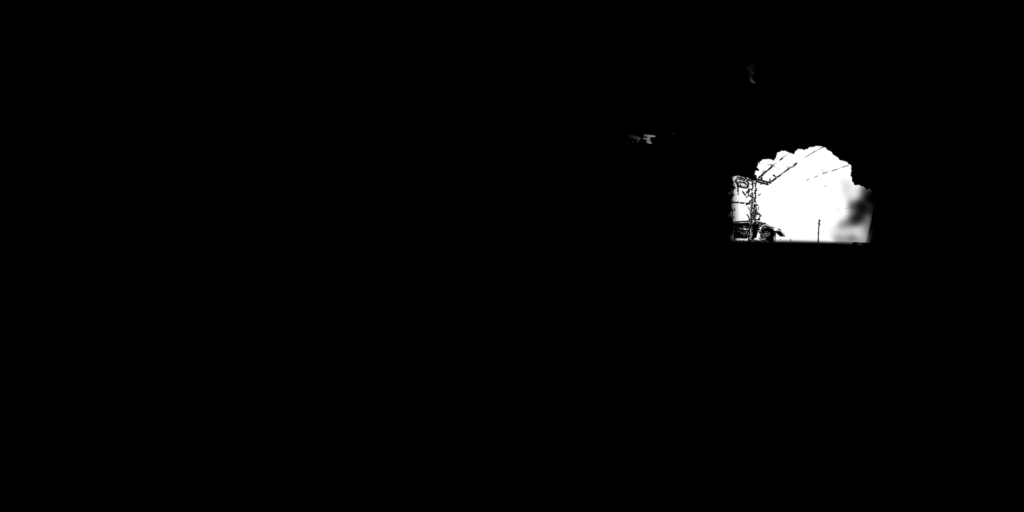
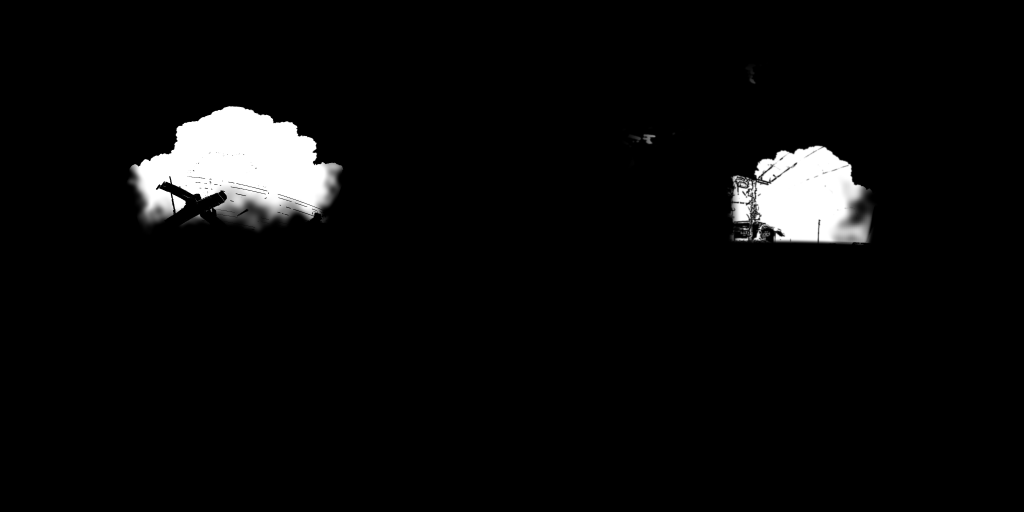
Lab: climb curve-mirror round 3
Claude-Session: https://claude.ai/code/session_01RqENhngNCzDFmJWDZueXGV

Changed region(s): [[0.125, 0.1875, 0.3438, 0.4375]]

diff --git a/src/app/lab/curve-mirror/curveMirrorEngine.js b/src/app/lab/curve-mirror/curveMirrorEngine.js
@@ -118,9 +118,13 @@ const PLANE_AZ = -36;
 // rest aim (relative to facing the lens) and limits, degrees
 const REST = [20, -15];
 // The hero aim (?aim=hero): turned toward the far side of the crossing and
-// tipped up, so the glass holds the crossbuck and the cumulus behind the
-// viewer against the deep cobalt over them.
-const HERO = [-40, 5];
+// tipped up a little, so the glass holds the turned crossbuck well inside its
+// rim with the far side's cumulus tower (reproject.py's far heap) rising
+// behind it over nearly half the dome, and the sun's glint off to the upper
+// rim, clear of the heap: a miniature of the scene, deep cobalt, one big
+// sunlit cloud, one sharp crossbuck. (Traced: the cloud takes ~44% of the
+// glass, the glint sits at 0.95 of the radius, the crossbuck at 0.64.)
+const HERO = [-50, 5];
 // What the bracket can do. The arm's clamp band turns on the pole, but the
 // yoke's stops (and the street the mirror is bolted to watch) hold the face
 // within 65 degrees of the lens either way, so its back, the bare pressed

diff --git a/tools/depth/bakes/curve-mirror/reproject.py b/tools/depth/bakes/curve-mirror/reproject.py
@@ -36,6 +36,13 @@ rebuilds everything above the road toward the crossing from the plate alone:
     the plate (street_develop: its HDR crunch, crushed blacks, milky whites
     and crisp JPEG edges taken to the plate's local contrast, black, plaster
     white, colour and spread), its sky rebased on the plate's gradient.
+  - over the far side, a tower of its own (far_heap): the plate's cumulus
+    is a cut scrap at its right edge, so turned it was a sliver on the far
+    side and the glass held there (the engine's HERO) an empty cobalt disc.
+    The photographed congestus (cumulus.py, whole; its source must be at
+    CUMULUS) is laid in a virtual camera rising behind the turned
+    crossbuck, under every surface and wire, its sun-side turrets clear of
+    the sun, and goes into envc so the engine carries its tops past 8 bits.
   - and no seam runs straight across the sky: the plate's and the 360's
     skies cross over a wide band (in azimuth where both are sky, and by
     elevation up the sky over the 360), and a cloud that a frame cut (the
@@ -61,6 +68,8 @@ sys.path.insert(0, os.path.join(os.path.dirname(os.path.abspath(__file__)), ".."
 import kit  # noqa: E402
 
 sys.path.insert(0, os.path.dirname(os.path.abspath(__file__)))
+import clouds  # noqa: E402
+import cumulus  # noqa: E402
 import develop  # noqa: E402
 import match  # noqa: E402
 import sky_grade  # noqa: E402
@@ -452,6 +461,80 @@ env, envc = heap_fade(env, sky360, envc)
 env = street_develop(env, cv2.GaussianBlur((1 - sky360).astype(np.float32), (0, 0), 1.0))
 T.mark("street")
 
+# ---------------------------------------------------------------- the far side's heap
+# The plate's cumulus stands at its right edge, cut by the frame, so turned
+# over the plane it is a scrap low on the far side's left, and the glass
+# held on the far side (the engine's HERO) showed an empty cobalt disc with
+# the reflected crossbuck at its edge. Refs 1-3 are the opposite: one big
+# soft glowing heap rising behind a sharp crossbuck. So the far side is given
+# its own tower: the photographed congestus (cumulus.py, the whole of it,
+# not the plate's cut crop), laid as match.py lays the one behind the lens,
+# in a virtual camera at the plate's focal length aimed past the turned
+# crossbuck (FAR_LON, FAR_PITCH), placed by FAR_PLACE: its crown at about
+# 55 degrees, its sunlit turrets on the sun's side (the sun stands off its
+# left shoulder, clear of it, so the glint and the heap both fit the glass),
+# its belly faded at the source's frame edges and its foot into the cobalt
+# low behind the turned roofs and the crossbuck. It goes under every
+# surface and wire (clouds._lay_over, with the plate's halo taken out), and
+# into envc, so the engine carries its tops past 8 bits like the plate's.
+FAR_LON, FAR_PITCH = -97.0, 30.0  # the virtual camera's aim: longitude, pitch, degrees
+FAR_W, FAR_H = 2800, 2000  # its size, px at the plate's f (28 px/deg)
+# the source's top-left corner and scale (cumulus.place): its crown at about
+# 54 degrees over lon -97, its sun-side turrets down to about -132, some
+# twelve degrees under and right of the sun
+FAR_PLACE = {"x": 300.0, "y": 180.0, "k": 0.56}
+# Its belly runs out of the source's frame at both sides and the foot: ended
+# not on the frame's lines but on the heap's own flanks, two lines falling
+# away from its shoulders (virtual camera px, each kept on the tower's
+# side), and its foot over these rows (about 23 to 11 degrees up, behind the
+# turned roofs and the crossbuck), every cut roughened (FAR_WOB px) and
+# taken off by the cloud's own density, so a turret's wisps go first and the
+# belly thins into the cobalt like a cloud's lee side.
+FAR_CUT = {"left": [[480, 800], [300, 1588]], "right": [[2300, 845], [2420, 1588]], "feather": 130, "foot": [1200, 1520]}
+FAR_WOB = (70.0, 110.0)  # px: the cuts' roughness, and its noise's scale
+
+
+def far_heap(c, sk):
+    """The far side's tower over the panorama c (linear) under its sky
+    matte sk; returns the panorama and the heap's matte (for envc)."""
+    Rv = match.view_frame(FAR_LON, FAR_PITCH)
+    v_lin, _ = match.to_view(c, Rv, f, FAR_W, FAR_H)
+    v_sky, _ = match.to_view(np.clip(sk, 0, 1).astype(np.float32), Rv, f, FAR_W, FAR_H)
+    # a wire is darker than the sky closed over it: the heap goes behind it
+    Lv = kit.luma(v_lin)
+    Lc = cv2.morphologyEx(Lv, cv2.MORPH_CLOSE, cv2.getStructuringElement(cv2.MORPH_ELLIPSE, (match.WIRE, match.WIRE)))
+    v_sky = (v_sky * kit.smoothstep(0.72, 0.93, Lv / np.maximum(Lc, 1e-4))).astype(np.float32)
+    sun = np.array(sc["sun"], np.float32)
+    C, A = cumulus.place(FAR_W, FAR_H, 1.0, FAR_PLACE, float(Rv[:, 0] @ sun), clouds.TOP, clouds.SHADE, clouds.BASE_C)
+    # the flanks and the foot, eroded by density
+    xs, ys = np.meshgrid(np.arange(FAR_W, dtype=np.float32), np.arange(FAR_H, dtype=np.float32))
+    rng = np.random.default_rng(31)
+    nz = cv2.GaussianBlur(rng.standard_normal((FAR_H // 8, FAR_W // 8)).astype(np.float32), (0, 0), FAR_WOB[1] / 8)
+    nz2 = cv2.GaussianBlur(rng.standard_normal((FAR_H // 8, FAR_W // 8)).astype(np.float32), (0, 0), FAR_WOB[1] / 20)
+    wob = FAR_WOB[0] * (0.75 * nz / nz.std() + 0.45 * nz2 / nz2.std())
+    wob = cv2.resize(wob, (FAR_W, FAR_H), interpolation=cv2.INTER_CUBIC)
+
+    def side(line, inside_x):
+        (x1, y1), (x2, y2) = line
+        nx, ny = y2 - y1, -(x2 - x1)
+        nn = np.hypot(nx, ny)
+        sd = ((xs - x1) * nx + (ys - y1) * ny) / nn
+        if (inside_x - x1) * nx < 0:
+            sd = -sd
+        return kit.smoothstep(-FAR_CUT["feather"], FAR_CUT["feather"], sd + wob)
+
+    ramp = side(FAR_CUT["left"], FAR_W) * side(FAR_CUT["right"], 0)
+    ramp = ramp * kit.smoothstep(FAR_CUT["foot"][1], FAR_CUT["foot"][0], ys + wob)
+    k = erode_by(A, ramp.astype(np.float32))
+    A, C = A * k, C * k[..., None]
+    new = v_lin * (1 - A[..., None]) + C
+    out, _ = clouds._lay_over(v_lin, new.astype(np.float32), v_sky, clouds.SHRINK)
+    delta, wt = match.from_view((out - v_lin).astype(np.float32), Rv, f, E)
+    a, _ = match.from_view((A * v_sky).astype(np.float32), Rv, f, E)
+    print("far heap: %.2f%% of the upper hemisphere" % (100 * ((a * wt) > 0.5)[: EH // 2].mean()))
+    return np.clip(c + delta * wt[..., None], 0, None).astype(np.float32), (a * wt).astype(np.float32)
+
+
 # ---------------------------------------------------------------- compose
 # the plate's world: its sky by elevation where the plate does not reach,
 # the plate where it does. Its surfaces meet that sky over FEATHER degrees
@@ -488,12 +571,19 @@ reg = np.maximum(reg, cov * azn).astype(np.float32)
 reg = cv2.GaussianBlur(reg, (0, 0), 1.5)
 env2 = env * (1 - reg[..., None]) + world * reg[..., None]
 
+# its sky: the plate's world's, and wherever a ray found only the far plane
+# (one carried on through the background plate behind the crossbuck or a
+# pole reads that surface's own sky matte, 0, but sees the sky)
+far_sky = np.maximum(sky_w, kit.smoothstep(150.0, 400.0, dist))
+env2, far_a = far_heap(env2, reg * far_sky + (1 - reg) * sky360)
+T.mark("far heap")
+
 dold = np.exp2(L2(cv2.resize(envd, (EW, EH), interpolation=cv2.INTER_LINEAR)))
 dnew = np.exp(np.log(dold) * (1 - reg) + np.log(np.maximum(dist, D0)) * reg)
 code = np.clip((np.log2(np.minimum(dnew, 1000)) - np.log2(D0)) / (np.log2(1000) - np.log2(D0)), 0, 1)
 code = cv2.resize(code.astype(np.float32), (envd.shape[1], envd.shape[0]), interpolation=cv2.INTER_AREA)
 regs = cv2.resize(reg, (envc.shape[1], envc.shape[0]), interpolation=cv2.INTER_AREA)
-envc2 = envc * (1 - regs)
+envc2 = np.maximum(envc * (1 - regs), cv2.resize(far_a, (envc.shape[1], envc.shape[0]), interpolation=cv2.INTER_AREA))
 T.mark("compose")
 
 os.makedirs(OUT, exist_ok=True)
